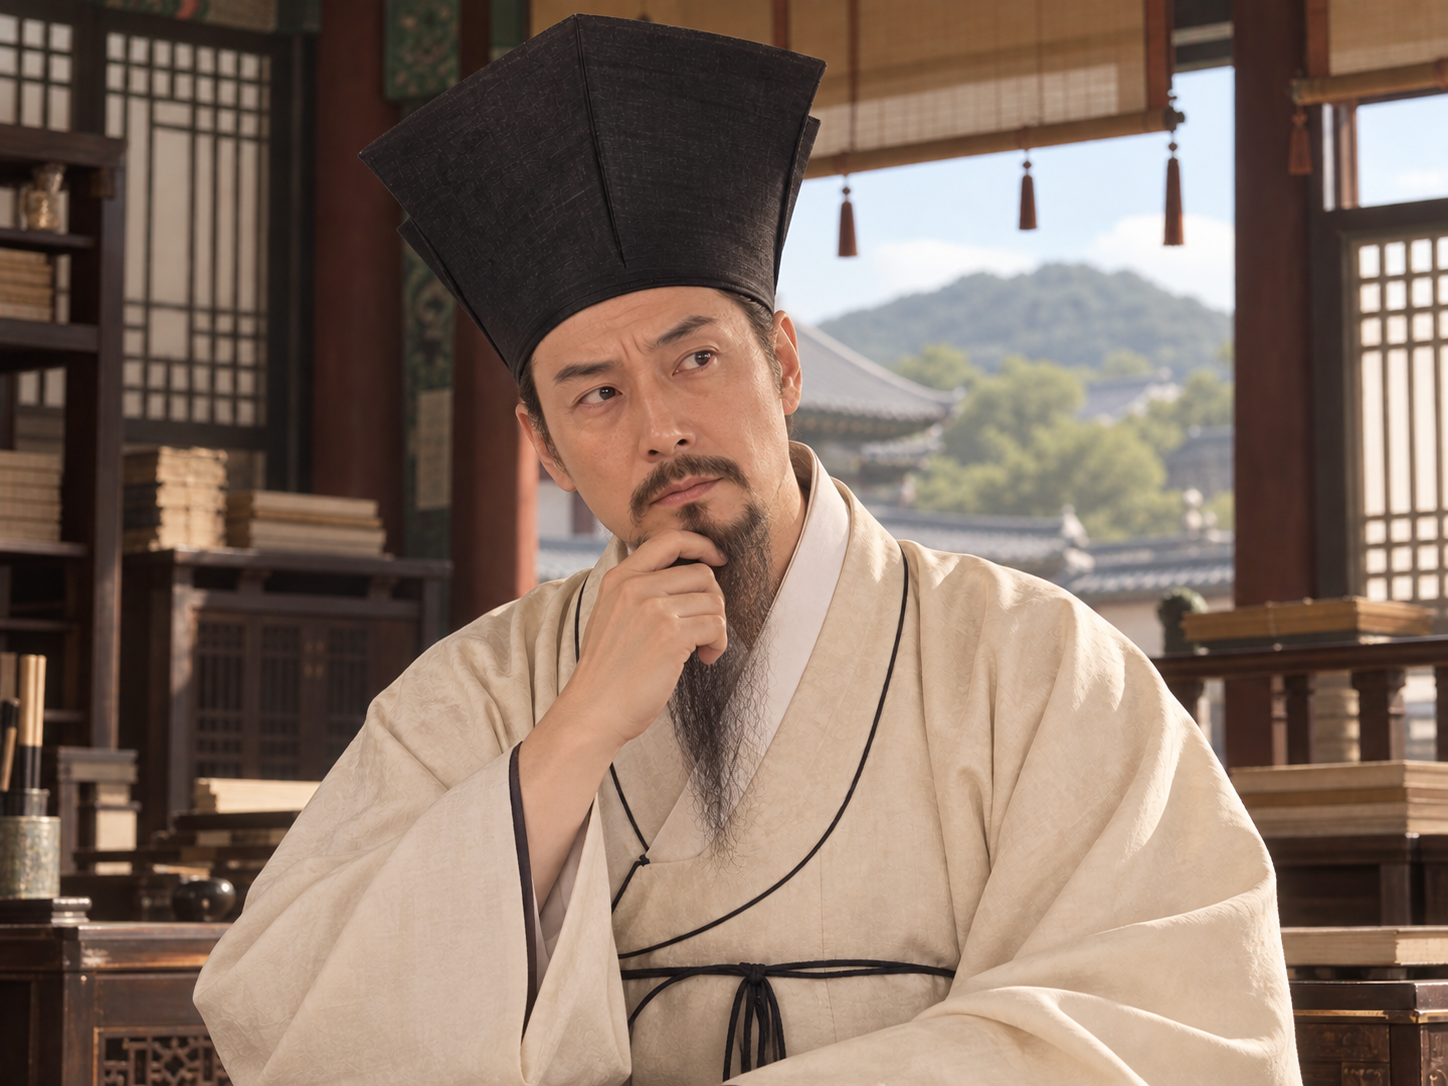
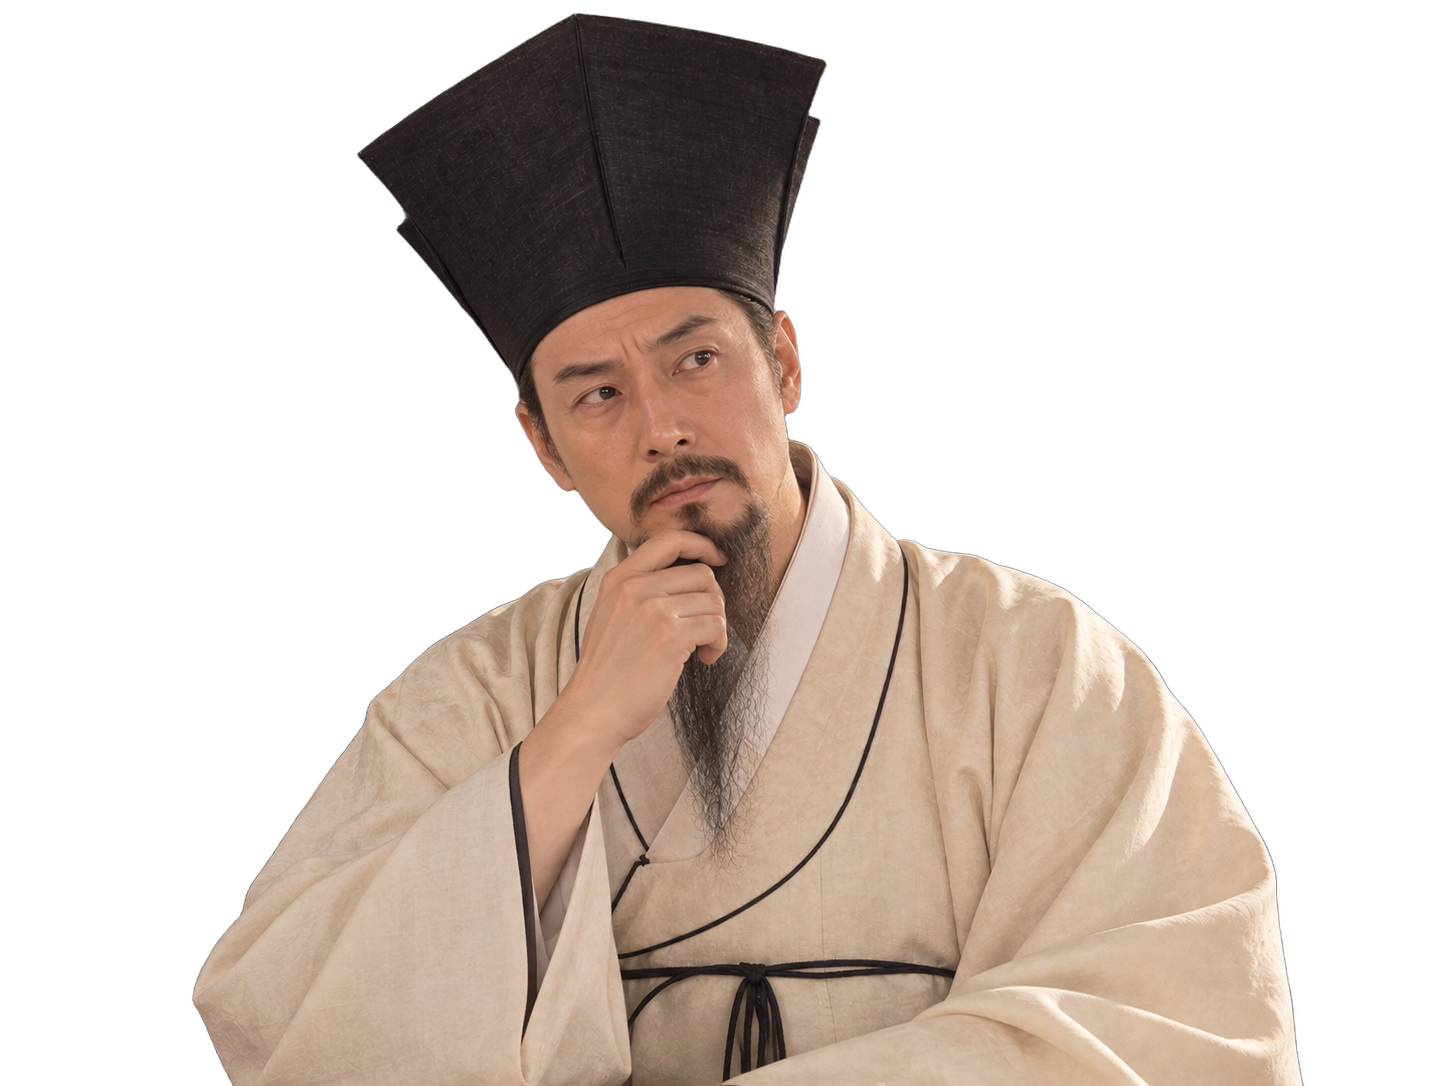
정약용 이미지 추가 + 누끼

diff --git a/remove_bg.py b/remove_bg.py
@@ -4,7 +4,7 @@ import os
 
 # 누끼를 적용할 폴더
 folders = [
-    "FE/public/images/jeongjo/young"
+    "FE/public/images/jeongyakyong"
 ]
 
 for folder in folders:
